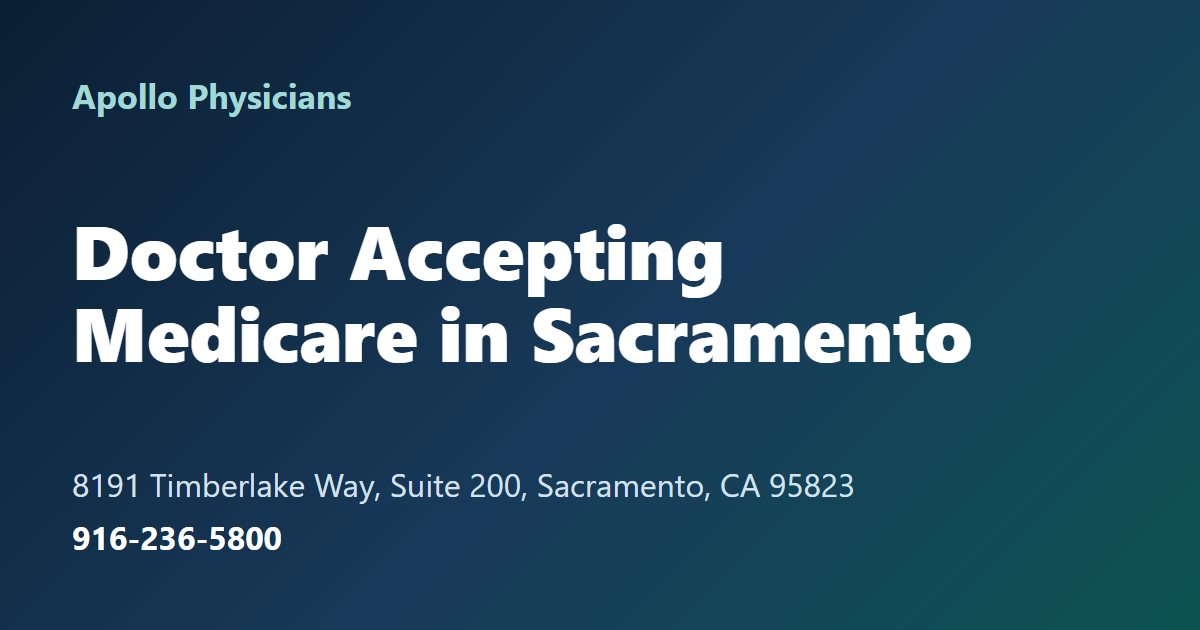
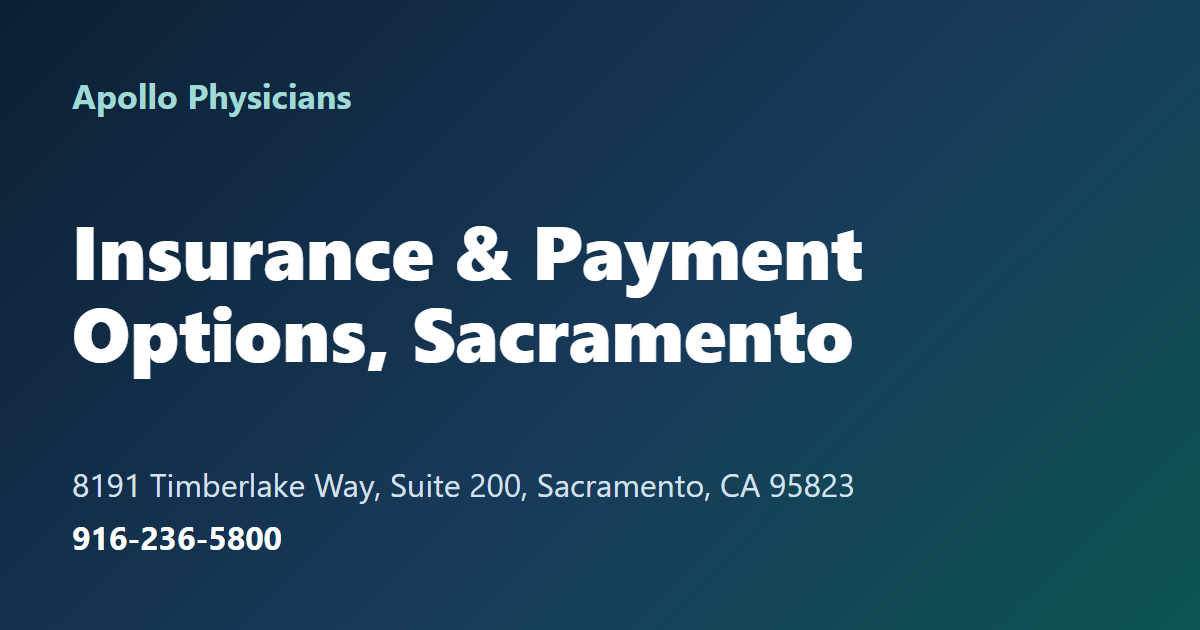
Publish the reviewed pages; retitle the insurance hub; fix Elk Grove page overflow at 375 px
Dr. Panesar's approval of the health content was relayed by the site owner on
12 Nov 2026 (no edits), so CLINICAL_REVIEW.reviewedOn is set to 2026-11-12.
That publishes eight pages: Medicare, Medi-Cal, Nivano Physicians, no-insurance,
same-day, annual physical, immigration and services.

- Hub: title "Insurance & Payment Options, Sacramento | Apollo Physicians", H1
  "Insurance and Payment Options", new description (155 characters), new share image
- Elk Grove page: min-w-0 on the grid column so the drive-time table scrolls inside
  its own box instead of widening the page (it was 432 px wide on a 375 px phone)
- plan-status updated

313 tests, tsc, lint, build, schema validator, crawl (15 pages) pass; checked at 375 px.

Changed region(s): [[0.0617, 0.3619, 0.8325, 0.6032]]

diff --git a/src/data/pages.ts b/src/data/pages.ts
@@ -13,7 +13,7 @@ import { OFFICE, PHONES } from './site';
 export const CLINICAL_REVIEW = {
   reviewer: 'Dr. Paramjit Panesar, MD',
   /** PENDING. Set to the date Dr. Panesar approved the health content (see docs/clinical-review/). */
-  reviewedOn: null as string | null,
+  reviewedOn: '2026-11-12' as string | null,
 };
 
 export interface PageMeta {
@@ -91,9 +91,9 @@ export const PAGE_META = {
   },
   insurance: {
     path: '/insurance-accepted',
-    lastModified: '2026-11-11',
-    title: 'Doctor Accepting Medicare in Sacramento | Apollo Physicians',
-    description: `Medicare, Aetna, Anthem Blue Cross, Blue Shield of California, Cigna, Health Net, UnitedHealthcare accepted in Sacramento. Self-pay from $65. Call ${PHONES.main.display}.`,
+    lastModified: '2026-11-12',
+    title: 'Insurance & Payment Options, Sacramento | Apollo Physicians',
+    description: `Insurance and payment options in South Sacramento: Medicare, Medi-Cal, Aetna, Anthem, Cigna and more, plus self-pay visits from $65. Call ${PHONES.main.display} now.`,
     navLabel: 'Insurance',
   },
   medicare: {

diff --git a/src/data/content.ts b/src/data/content.ts
@@ -162,7 +162,7 @@ export const NEW_PATIENTS: PageContent = {
 export const INSURANCE_DIRECT_ANSWER = `Apollo Physicians accepts Medicare, most Medi-Cal plans and these health plans: Aetna, Anthem Blue Cross, Blue Shield of California, Cigna, Health Net and UnitedHealthcare. It also accepts patients from the Sutter Health, Hill Physicians and Nivano Physicians medical groups. Patients without insurance can pay themselves; initial self-pay visits start at ${INITIAL_VISIT_FROM}. Call ${CALL} to confirm your plan.`;
 
 export const INSURANCE: PageContent = {
-  h1: 'Insurance Accepted at Apollo Physicians',
+  h1: 'Insurance and Payment Options',
   eyebrow: 'Insurance and pricing',
   blocks: [
     {

diff --git a/src/data/navigation.ts b/src/data/navigation.ts
@@ -29,7 +29,7 @@ const FOOTER_LABELS: Record<PageKey, string> = {
   panesar: PROVIDER.name,
   services: 'Services',
   immigration: 'Immigration medical exam',
-  insurance: 'Insurance accepted',
+  insurance: 'Insurance and payment options',
   medicare: 'Medicare patients',
   mediCal: 'Medi-Cal patients',
   nivano: 'Nivano Physicians patients',
@@ -68,7 +68,7 @@ const CRUMB_NAMES: Record<Exclude<PageKey, 'home'>, string> = {
   panesar: PROVIDER.name,
   services: 'Services',
   immigration: 'Immigration medical exam',
-  insurance: 'Insurance accepted',
+  insurance: 'Insurance and payment options',
   medicare: 'Medicare',
   mediCal: 'Medi-Cal',
   nivano: 'Nivano Physicians',

diff --git a/src/app/family-physician-elk-grove/page.tsx b/src/app/family-physician-elk-grove/page.tsx
@@ -67,7 +67,7 @@ export default function ElkGrovePage() {
 
       <Section id="getting-here" headingId="elk-office-heading" title="Getting here from Elk Grove">
         <div className="grid gap-8 lg:grid-cols-2">
-          <div className="space-y-4">
+          <div className="min-w-0 space-y-4">
             <p className="text-lg leading-relaxed text-navy-800">{ELK_GROVE_NOTE}</p>
             <div className="overflow-x-auto" tabIndex={0} role="region" aria-label="Drive times from Elk Grove table, scrollable">
               <table className="w-full min-w-[26rem] border-collapse text-left">

diff --git a/docs/seo/plan-status-2026-11-12.md b/docs/seo/plan-status-2026-11-12.md
@@ -9,7 +9,7 @@ This answers "make the entire plan done" for `master-prompt-payment-segments-202
 | 2 Segment research | **Done, with limits** | `segment-intent-2026-11-12.md` (7 segments, both cities, from search results only; no volumes, no map pack or AI Overview view), `local-research-2026-11-12.md` (competitors, listing audit, link gaps, 5-point rank check). DataForSEO, Moz, Bing and Profound were not available |
 | 3 Build | **Done for what the facts allow** | A segment-specific "For Elk Grove patients" block on the Medicare, Medi-Cal, Nivano and no-insurance pages; a live-gated segment-link list on the Elk Grove page; `dateModified` in page schema; real `lastmod` dates; a test for the Elk Grove blocks. 313 tests, `tsc`, lint, build, schema validator and crawl pass in the shipped state |
 | 3 Build, **not built on purpose** | Held | Medicare Advantage, Vivant Health and community-clinic pages: their facts are not confirmed (plan names, contract, item 40). The tests block those words |
-| 4 Publish | **Blocked: needs Dr. Panesar** | Set `CLINICAL_REVIEW.reviewedOn` after the review. This was not set and was not tested by temporarily setting it (the project rule says only the doctor's approval sets it). The reviewed state is covered by `clinical-gate.test.ts`. When publishing: retitle `/insurance-accepted` (title "Doctor Accepting Medicare" vs H1 "Insurance Accepted"), run `npm run generate:og`, resubmit the sitemap |
+| 4 Publish | **Done on branch `publish-reviewed-pages-2026-11-12`, not yet merged** (the site owner reported Dr. Panesar's approval of everything on 12 Nov 2026; `reviewedOn` set to 2026-11-12, so the date shown on the pages is the date the owner relayed the approval; change it if the doctor approved on another day). Original note: | Set `CLINICAL_REVIEW.reviewedOn` after the review. This was not set and was not tested by temporarily setting it (the project rule says only the doctor's approval sets it). The reviewed state is covered by `clinical-gate.test.ts`. When publishing: retitle `/insurance-accepted` (title "Doctor Accepting Medicare" vs H1 "Insurance Accepted"), run `npm run generate:og`, resubmit the sitemap |
 | 5 Off-site | **Checklist written, not done** | `offsite-2026-11-12.md`: exact Business Profile text, 8 posts, directory fixes, plan-finder list, review script, the riolabz takedown. Needs the practice's accounts |
 | 6 Measure | **Plan written, cannot run yet** | `measure-plan-2026-11-12.md`: needs live pages plus four weeks, Search Console access, and the front-desk log |
 
@@ -27,3 +27,7 @@ This answers "make the entire plan done" for `master-prompt-payment-segments-202
 5. Real photos with permission; replace the stock home image (it shows a microscope and a hospital hallway, with empty alt text).
 6. Check the reported 1 January 2027 Medi-Cal change on dhcs.ca.gov before writing anything about it.
 7. Search Console access, to measure anything.
+
+## Update, 12 Nov 2026 (publish branch)
+
+The site owner reported that Dr. Panesar approved everything, with no edits. On branch `publish-reviewed-pages-2026-11-12`: `CLINICAL_REVIEW.reviewedOn` = 2026-11-12; hub retitled "Insurance & Payment Options, Sacramento | Apollo Physicians" with the H1 "Insurance and Payment Options" and a new share image; the Elk Grove page's drive-time table no longer forces sideways scrolling at 375 px (a bug that was already live). Checked on a production build: 313 tests, `tsc`, lint, schema validator PASS; crawl PASS on 15 pages and 15 sitemap URLs; all eight held pages return 200 and show "Medical review: Dr. Paramjit Panesar, MD. Last reviewed: November 12, 2026"; schema carries `lastReviewed`; the four segment pages have no sideways scroll at 375 px and keep the Call button; `llms-full.txt` lists the new pages. **Not done:** merge, deploy, Search Console and Bing steps, Business Profile and directory fixes (runbook steps 8 to 11).
